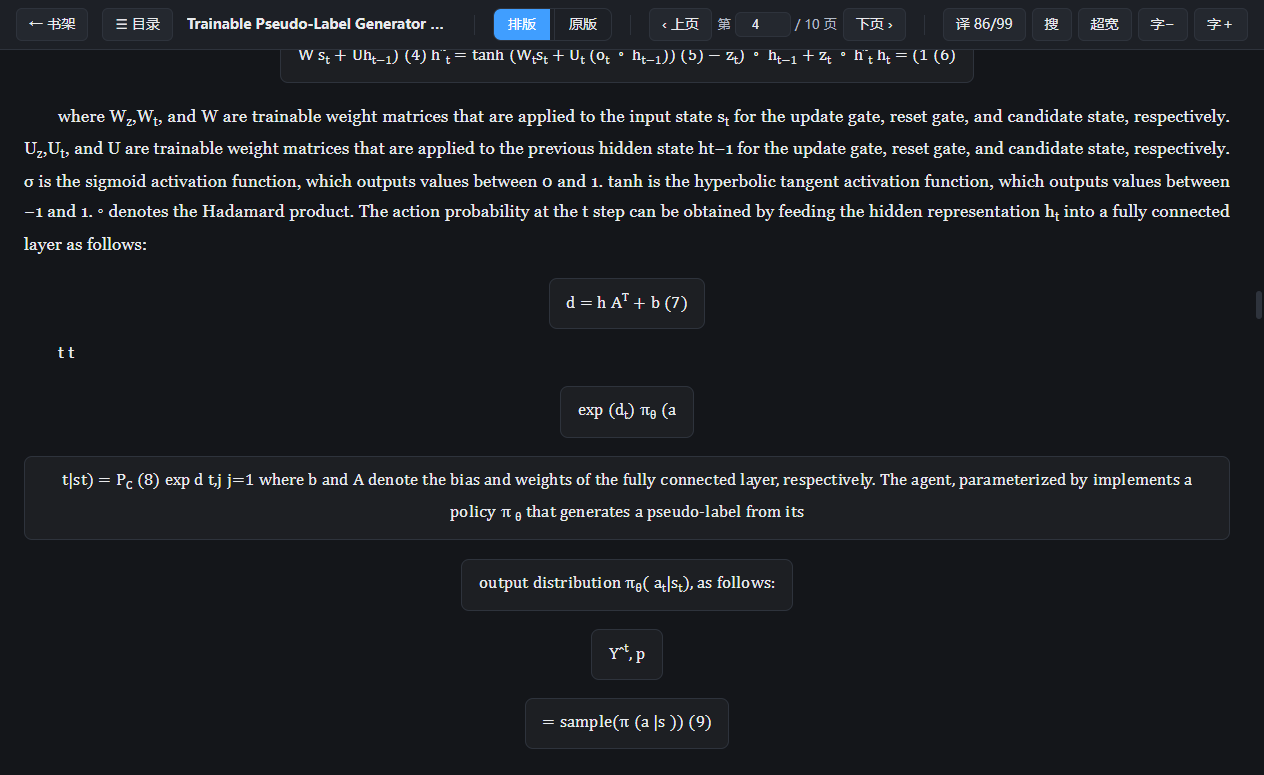
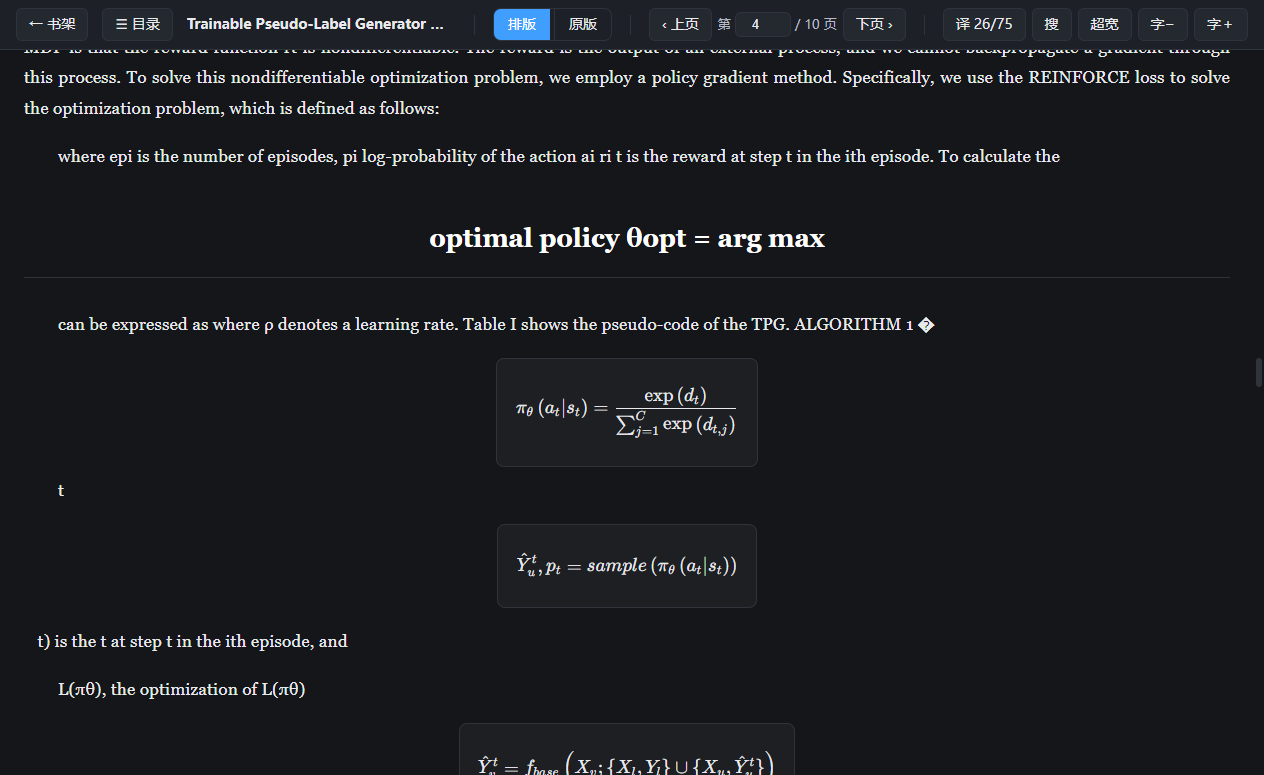
fix: CSP 允许 WASM —— MuPDF 真正的拦路虎（10 个公式 KaTeX 全通）
**根因溯源**：CSP 的 script-src 'self' 不含 'wasm-unsafe-eval'，
WebAssembly.instantiate 被拒绝（Refused to compile or instantiate
WebAssembly module）——这一条解释了此前所有怪现象：
- 静态导入 mupdf 时模块求值即抛错 → 整个模块图崩溃（书架空白）
- 动态导入时异常可捕获 → 静默回退 pdf.js，MuPDF 从未真正运行过
- 页面渲染 dataUrl 恒为 null → LLM 公式识别空转后报'完成'

修复链：
1. CSP 加 'wasm-unsafe-eval'
2. mupdf-loader.ts 包装模块（静态依赖 mupdf）+ 主代码动态导入
   → Vite 拆出独立 chunk（mupdf-loader-*.js + mupdf-wasm-*.wasm）
3. 公式判定强化：行尾 (N) 编号 或 含等号短行且散文词≤1（数学函数
   名 sigma/tanh/exp/max/sample 等不计散文词）→ 公式块 2→11
4. 旧逐公式 LLM 路径停用（与新整页批量路径冲突）

**实测**：MuPDF 提取成功（无回退）、公式块 11 个、KaTeX 渲染 10 个、
分式/上下标/集合符号全部正确、回归 8/8

diff --git a/src/renderer/src/reader.ts b/src/renderer/src/reader.ts
@@ -110,9 +110,14 @@ let mupdfModuleRef: any = null
 /** MuPDF 模块：动态导入包装模块（独立 chunk，避免顶层 await 阻塞主图） */
 async function loadMupdf(): Promise<any> {
   if (mupdfModuleRef) return mupdfModuleRef
-  const mod = await import('./mupdf-loader')
-  mupdfModuleRef = mod.default
-  return mupdfModuleRef
+  const mod: any = await import('./mupdf-loader')
+  const m = mod.mupdf ?? mod.default ?? mod
+  if (!m || typeof m.Document?.openDocument !== 'function') {
+    const keys = Object.keys(mod ?? {}).join(',')
+    throw new Error(`mupdf-loader 未导出可用模块（keys: ${keys}）`)
+  }
+  mupdfModuleRef = m
+  return m
 }
 let llmParsing = new Set<number>()
 
@@ -130,7 +135,6 @@ function escapeHtml(s: string): string {
 }
 
 export async function openReader(id: number): Promise<void> {
-  console.error("[TRACE-V2] openReader 进入，MuPDF 架构版本")
   const info = await window.paperlite.openReading(id)
   if (!info) return
   await task?.destroy()
@@ -172,7 +176,8 @@ export async function openReader(id: number): Promise<void> {
   try {
     const res = await fetch(window.paperlite.pdfUrl(id))
     const buf = new Uint8Array(await res.arrayBuffer())
-    const mupdfDoc = mupdfModuleRef!.Document.openDocument(buf, 'application/pdf')
+    const mupdfMod = await loadMupdf()
+    const mupdfDoc = mupdfMod.Document.openDocument(buf, 'application/pdf')
     mupdfDocRef = mupdfDoc as unknown as NonNullable<typeof mupdfDocRef>
     const mupdfPages: MupdfPageLike[] = []
     for (let p = 0; p < mupdfDoc.countPages(); p++) {
@@ -215,9 +220,8 @@ export async function openReader(id: number): Promise<void> {
     window.setTimeout(() => {
       if (readingId === id && mode === 'reflow') void attachTables()
     }, 9000)
-    window.setTimeout(() => {
-      if (readingId === id && mode === 'reflow') void upgradeFormulas()
-    }, 12000)
+    // 旧逐公式 LLM 路径已由 parseAllPages（整页批量）取代，不再调度——
+    // 两条路径都会改写 .formula 内容，并行会产生污染叠加
   } else {
     applyWidth()
     pdfScrollBuilt = false

diff --git a/src/renderer/src/reflow.ts b/src/renderer/src/reflow.ts
@@ -418,8 +418,20 @@ export function dropRunningHeads(perPage: { lines: Line[]; height: number }[]): 
 }
 
 /** 行是公式吗：字体占比 / 符号密度 / 公式编号 / 逐符号碎片结构，任一强信号即判定 */
+/** 数学函数/记号名（不算"英文散文词"） */
+const MATH_WORD_RE =
+  /^(sigma|tanh|exp|max|min|log|arg|sample|softmax|sigmoid|relu|concat|softplus|where|and|then|follows|respectively)$/i
+
 function isFormulaLine(l: Line): boolean {
   if (l.text.replace(/\s/g, '').length < 1) return false
+  const t = l.text.trim()
+  // 强信号 1：行尾公式编号 (N) 且散文词≤1 —— display 公式的特征
+  const proseWords = (t.match(/[A-Za-z]{4,}/g) ?? []).filter((w) => !MATH_WORD_RE.test(w))
+  const hasEqNum = /\(\d{1,2}\)\s*$/.test(t)
+  if (hasEqNum && proseWords.length <= 1) return true
+  // 强信号 2：含等号、短行、几乎无散文词 —— 纯表达式行
+  const eqCount = (t.match(/=/g) ?? []).length
+  if (eqCount >= 1 && t.length <= 90 && proseWords.length <= 1) return true
   // 算法伪代码的输入/变量声明（如 "Budget, θ, θ−, ER memory"）：
   // 含 2 个以上长英文单词 → 是名词列表不是公式
   const longWords = l.text.match(/[A-Za-z]{4,}/g) ?? []
@@ -583,7 +595,8 @@ export function linesToBlocks(lines: Line[], bodySize: number): ReflowBlock[] {
           ? 'heading'
           : 'paragraph'
 
-    // 孤立公式编号行（"(1)"）：紧跟公式块的并入公式块
+    // 孤立公式编号行（"(1)"）：紧跟公式块或编号行的并入前块
+
     if (bufKind === 'formula' && bufT.length > 0 && /^\(\d{1,2}\)$/.test(l.text.trim())) {
       bufT.push(l.text)
       bufH.push(l.html)
@@ -1372,7 +1385,6 @@ function markCaptions(blocks: ReflowBlock[]): void {
       b.role = 'caption'
       hits++
     } else if (m && (b.kind !== 'paragraph' || b.role)) {
-      console.error('[cap-debug] RE命中但未标:', b.kind, b.role ?? '-', b.text.length, JSON.stringify(b.text.slice(0, 30)))
     }
   }
 }

diff --git a/src/renderer/index.html b/src/renderer/index.html
@@ -4,7 +4,7 @@
     <meta charset="UTF-8" />
     <meta
       http-equiv="Content-Security-Policy"
-      content="default-src 'self'; script-src 'self'; style-src 'self' 'unsafe-inline'; img-src 'self' paperlite: data: blob:; connect-src 'self' paperlite: blob: data:; worker-src 'self' blob:; font-src 'self' data:"
+      content="default-src 'self'; script-src 'self' 'wasm-unsafe-eval'; style-src 'self' 'unsafe-inline'; img-src 'self' paperlite: data: blob:; connect-src 'self' paperlite: blob: data:; worker-src 'self' blob:; font-src 'self' data:"
     />
     <title>PaperLite</title>
   </head>

diff --git a/src/renderer/src/mupdf-loader.ts b/src/renderer/src/mupdf-loader.ts
@@ -9,4 +9,5 @@
  */
 import * as mupdf from 'mupdf'
 
+export { mupdf }
 export default mupdf
